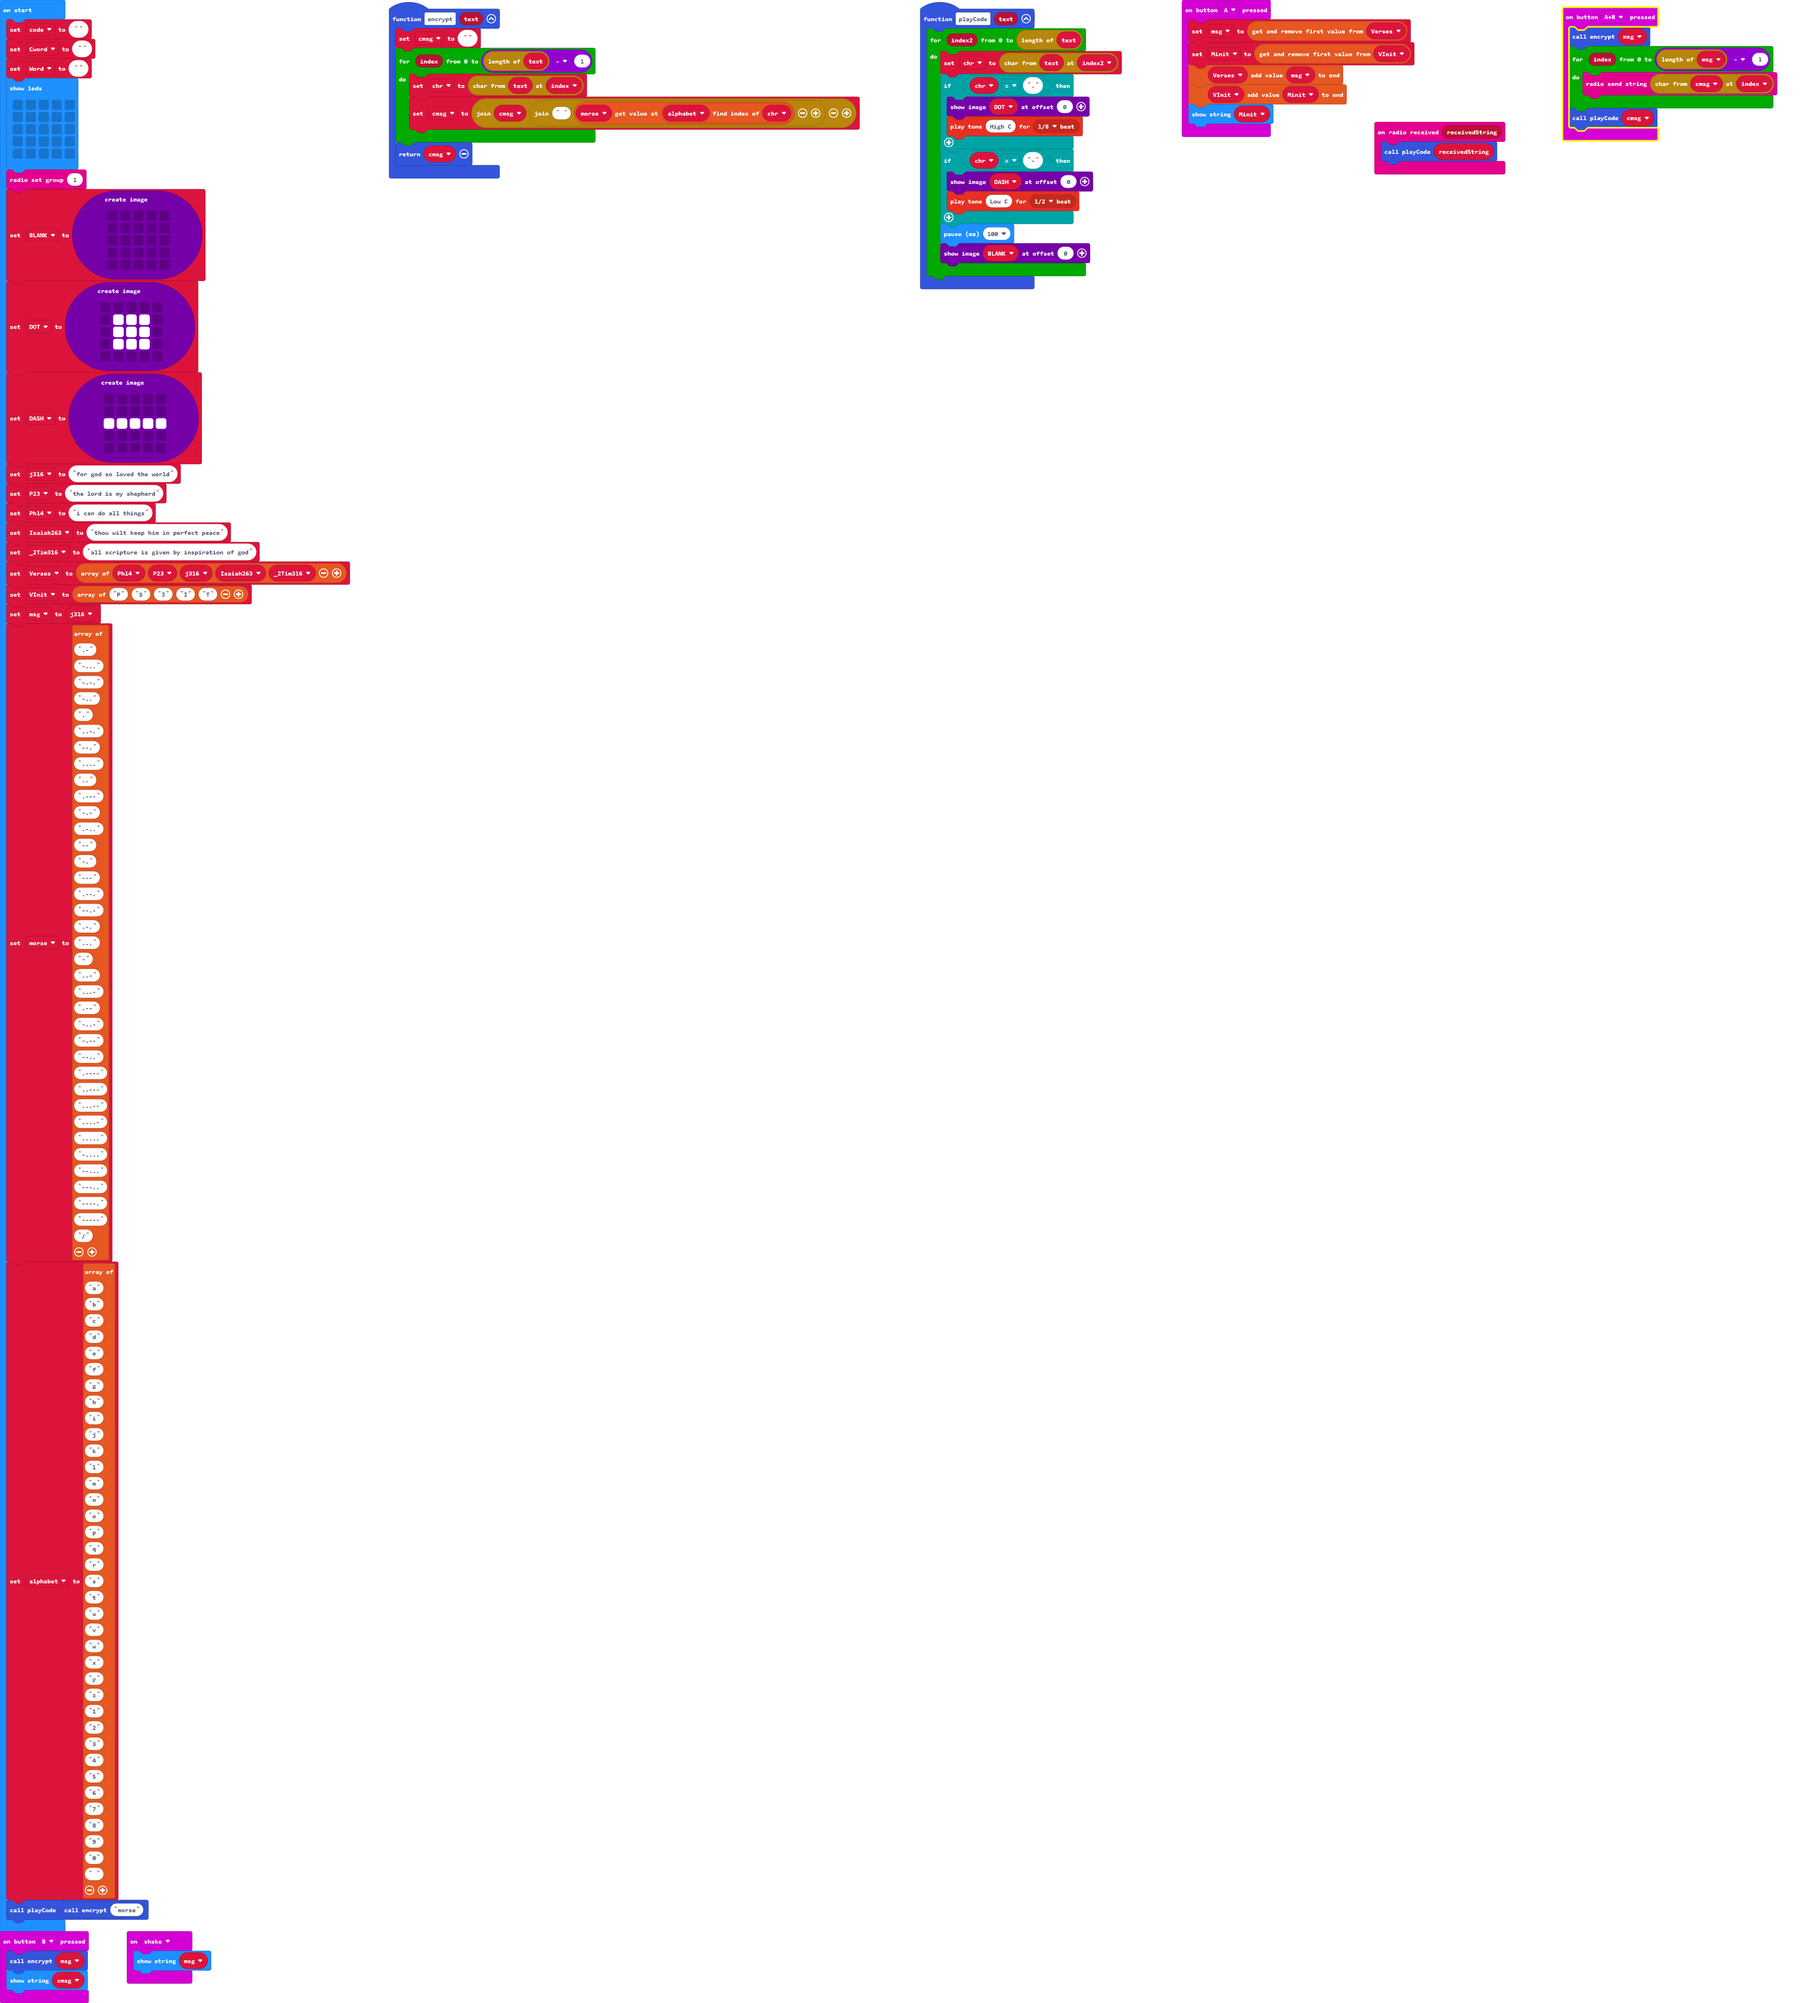
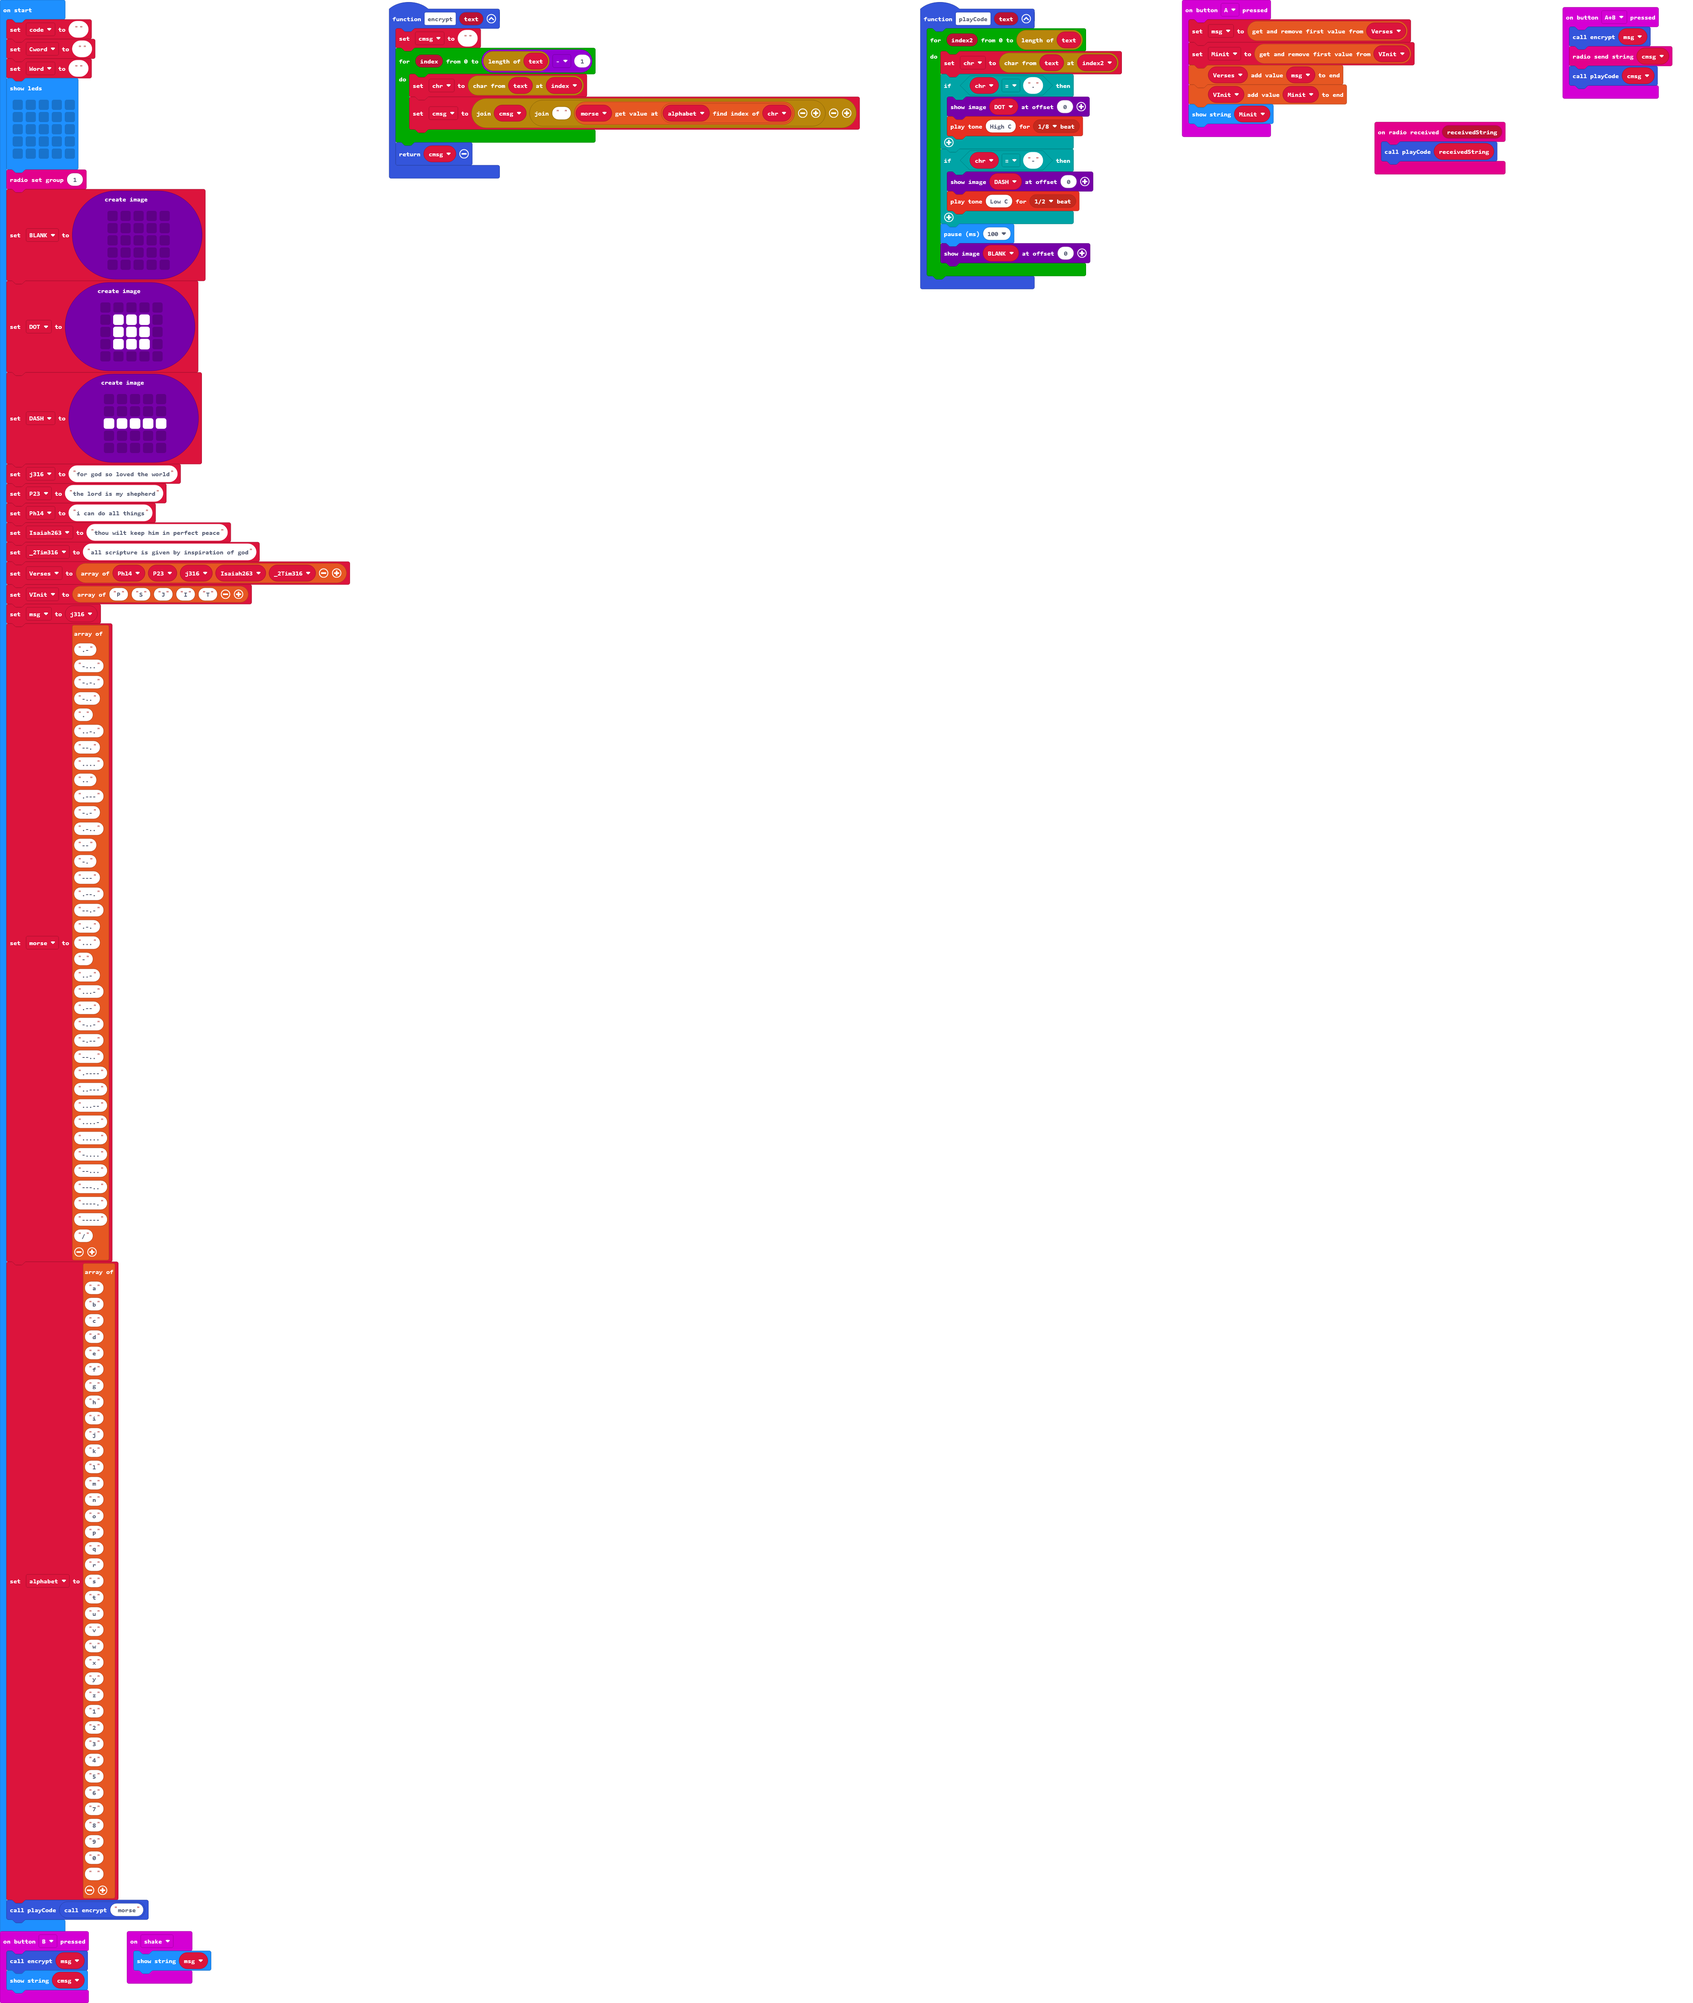
Update main.blocks, main.ts

Changed region(s): [[0.0, 0.0, 0.2171, 1.0], [0.1861, 0.0, 0.9925, 0.1555]]

diff --git a/main.ts b/main.ts
@@ -30,9 +30,7 @@ input.onButtonPressed(Button.A, function () {
 })
 input.onButtonPressed(Button.AB, function () {
     encrypt(msg)
-    for (let index = 0; index <= msg.length - 1; index++) {
-        radio.sendString(cmsg.charAt(index))
-    }
+    radio.sendString("" + (cmsg))
     playCode(cmsg)
 })
 radio.onReceivedString(function (receivedString) {
